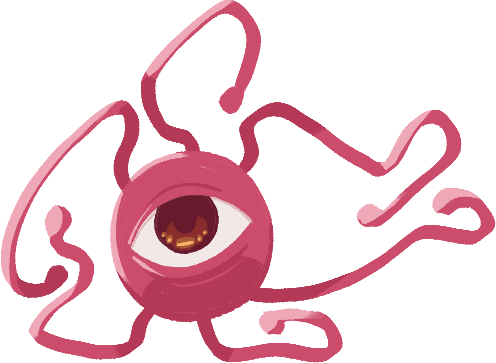
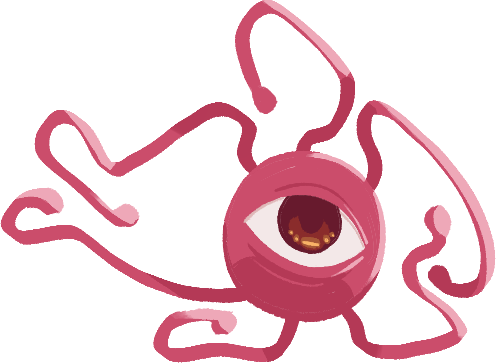
flipped fishes, created alt. behavior A without sprite flipping, for inanimate objects

diff --git a/Assets/Scripts/AI Types/AI_TypeA1.cs b/Assets/Scripts/AI Types/AI_TypeA1.cs
@@ -1,0 +1,110 @@
+using System.Collections;
+using System.Collections.Generic;
+using UnityEngine;
+
+public class AI_TypeA1 : MonoBehaviour
+{
+    public float accelerationUpperLimit;
+    public float accelerationLowerLimit;
+    float currAccel;
+
+    public float maxSpeed;
+
+
+    public float directionChangeCooldownUpperLimit;
+    public float directionChangeCooldownLowerLimit;
+    float directionChangeCD = 0f;
+
+    public Rigidbody2D rb;
+
+    Vector2 direction;
+
+    public float patrolLimitRangeX;
+    public float patrolLimitRangeY;
+    float limitUpperRangeX;
+    float limitLowerRangeX;
+    float limitUpperRangeY;
+    float limitLowerRangeY;
+    
+
+    FishAIController aIController;
+    // Start is called before the first frame update
+    void Start()
+    {
+        aIController = GetComponent<FishAIController>();
+        limitUpperRangeX = this.transform.position.x + patrolLimitRangeX;
+        limitLowerRangeX = this.transform.position.x - patrolLimitRangeX;
+        limitUpperRangeY = this.transform.position.y + patrolLimitRangeY;
+        limitLowerRangeY = this.transform.position.y - patrolLimitRangeY;
+        SelectDirection();
+    }
+
+    // Update is called once per frame
+    void Update()
+    {
+
+        if(directionChangeCD < 0.0f)
+        {
+            SelectDirection();
+        }
+
+        if (rb.velocity.magnitude < maxSpeed)
+            rb.AddForce(direction.normalized * currAccel * Time.deltaTime, ForceMode2D.Impulse);
+
+        directionChangeCD -= Time.deltaTime;
+
+        LimitChecker();
+    }
+
+
+    void SelectDirection()
+    {
+        float ranX = Random.Range(-1f, 1f);
+        float ranY = Random.Range(-1f, 1f);
+        direction = new Vector2(ranX, ranY);
+
+        directionChangeCD = Random.Range(directionChangeCooldownLowerLimit, directionChangeCooldownUpperLimit);
+
+        //if (ranX < 0.0f) aIController.spriteRenderer.flipX = true;
+        //else aIController.spriteRenderer.flipX = false;
+
+        currAccel = Random.Range(accelerationLowerLimit, accelerationUpperLimit);
+    }
+
+    void LimitChecker()
+    {
+        if(this.transform.position.x > limitUpperRangeX)
+        {
+            float ranX = Random.Range(-1f, -0.25f);
+            direction = new Vector2(ranX, direction.y);
+
+            directionChangeCD = Random.Range(directionChangeCooldownLowerLimit, directionChangeCooldownUpperLimit);
+            //aIController.spriteRenderer.flipX = true;
+        }
+
+        else if (this.transform.position.x < limitLowerRangeX)
+        {
+            float ranX = Random.Range(.25f, 1f);
+            direction = new Vector2(ranX, direction.y);
+
+            directionChangeCD = Random.Range(directionChangeCooldownLowerLimit, directionChangeCooldownUpperLimit);
+            //aIController.spriteRenderer.flipX = false;
+        }
+
+        if (this.transform.position.y > limitUpperRangeY)
+        {
+            float ranY = Random.Range(-1f, -0.25f);
+            direction = new Vector2(direction.x, ranY);
+
+            directionChangeCD = Random.Range(directionChangeCooldownLowerLimit, directionChangeCooldownUpperLimit);
+        }
+
+        else if (this.transform.position.y < limitLowerRangeY)
+        {
+            float ranY = Random.Range(.25f, 1f);
+            direction = new Vector2(direction.x, ranY);
+
+            directionChangeCD = Random.Range(directionChangeCooldownLowerLimit, directionChangeCooldownUpperLimit);
+        }
+    }
+}

diff --git a/Assets/Scripts/ScriptableObjects/RodSO.cs b/Assets/Scripts/ScriptableObjects/RodSO.cs
@@ -8,11 +8,13 @@ public class RodSO : ItemSO
     [Space(5)]
     public int diveSpeed;
     public int reelSpeed;
+    public int fastReelSpeed;
 
     public override string GetItemDescChunk()
     {
         return "" + flavorText + "\n\n"
             + "Dive Speed " + diveSpeed + "\n"
-            + "Reel Speed " + diveSpeed + "\n";
+            + "Reel Speed " + reelSpeed + "\n"
+            + "Fast Reel Speed " + fastReelSpeed + "\n";
     }
 }
